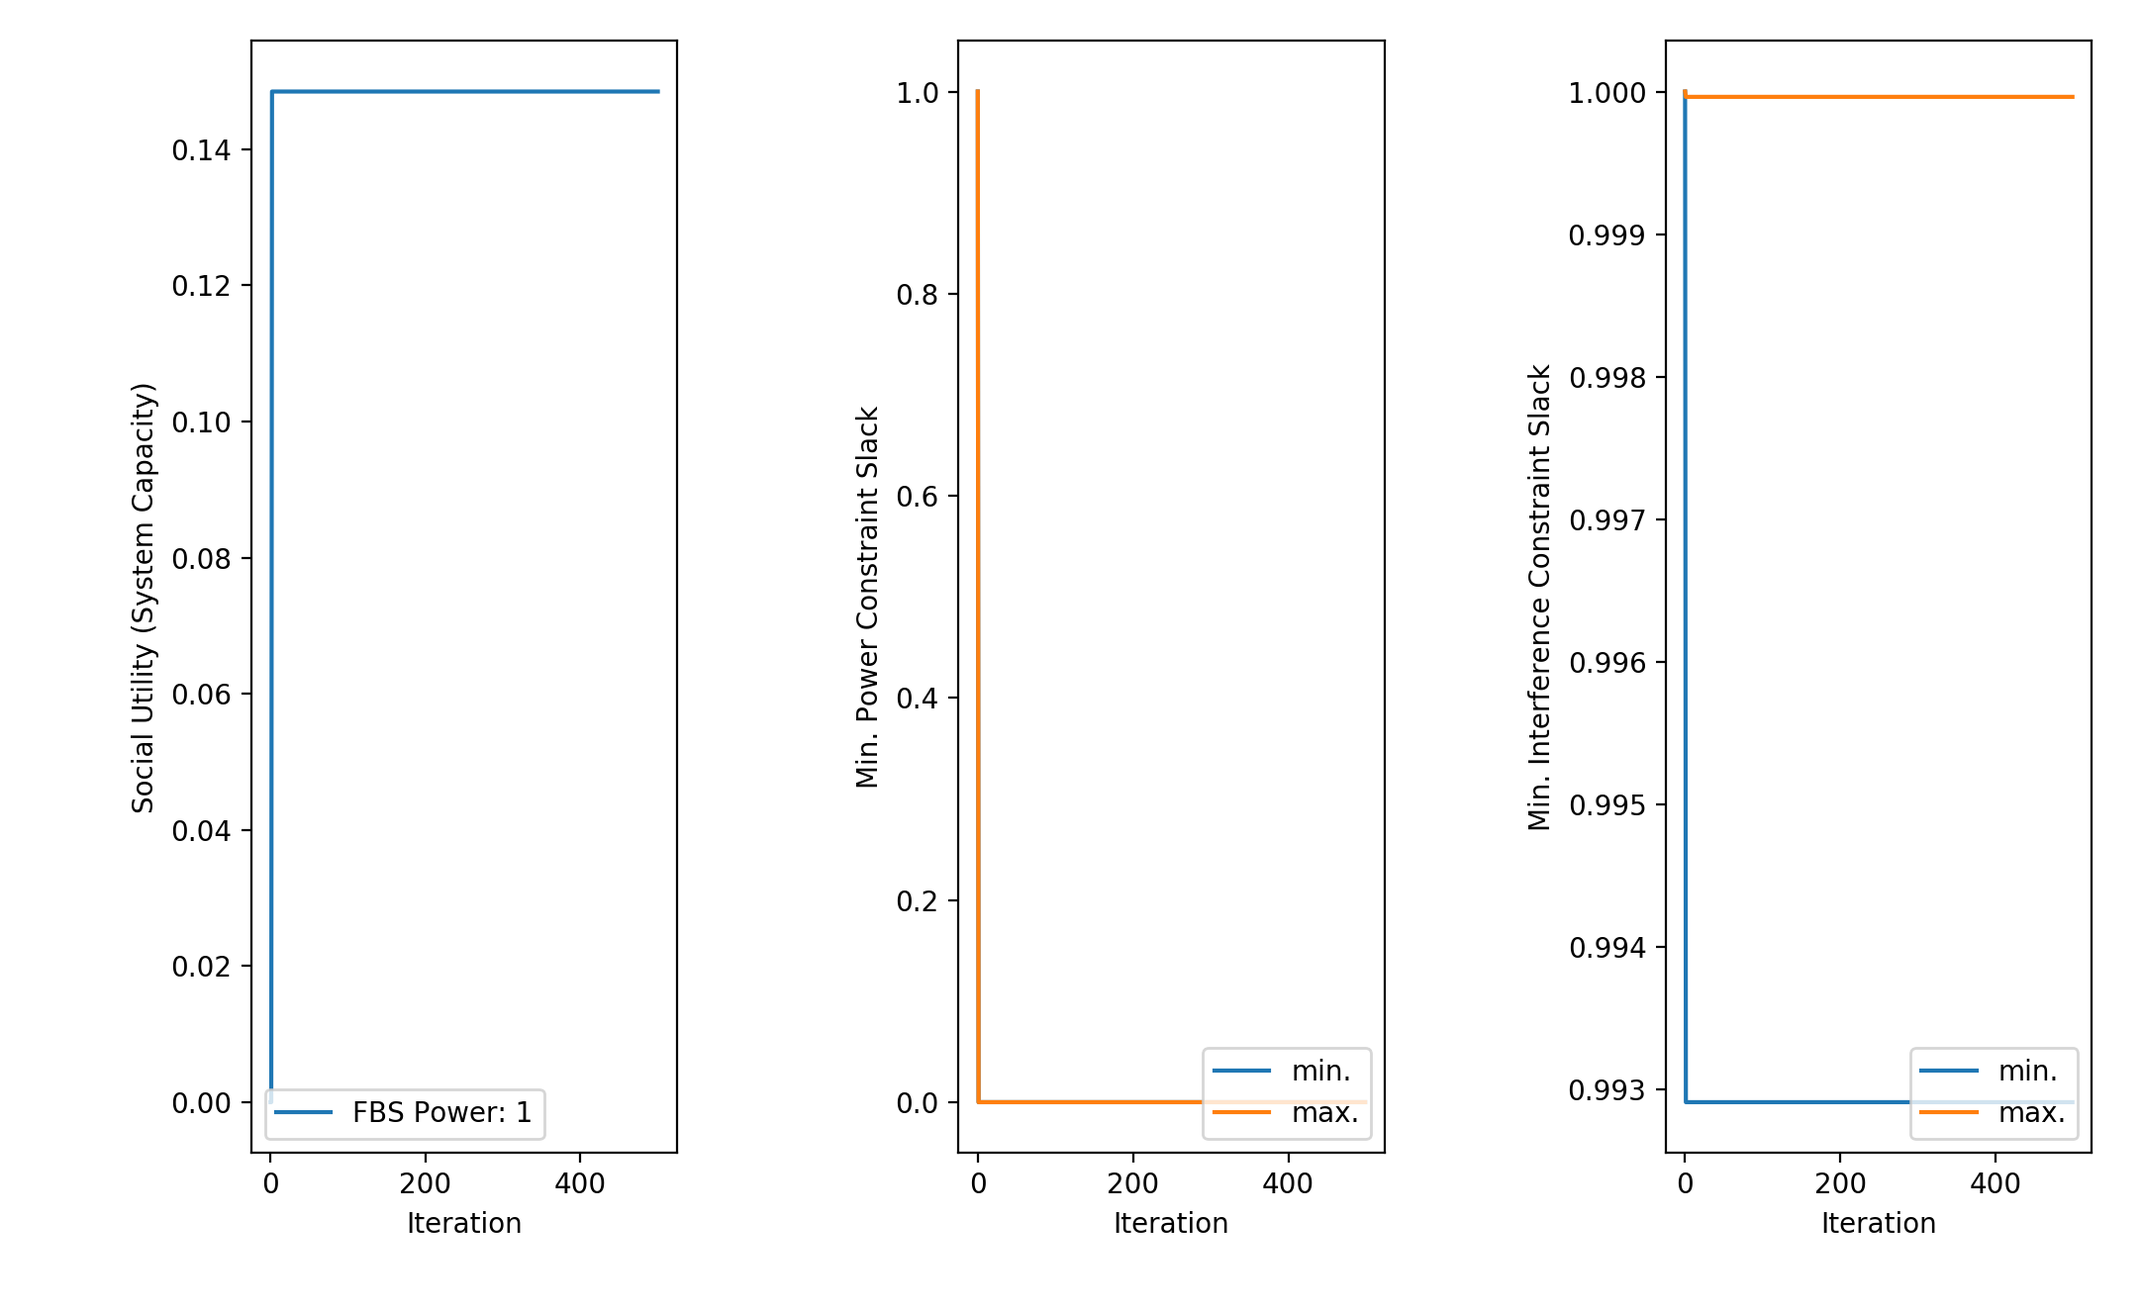
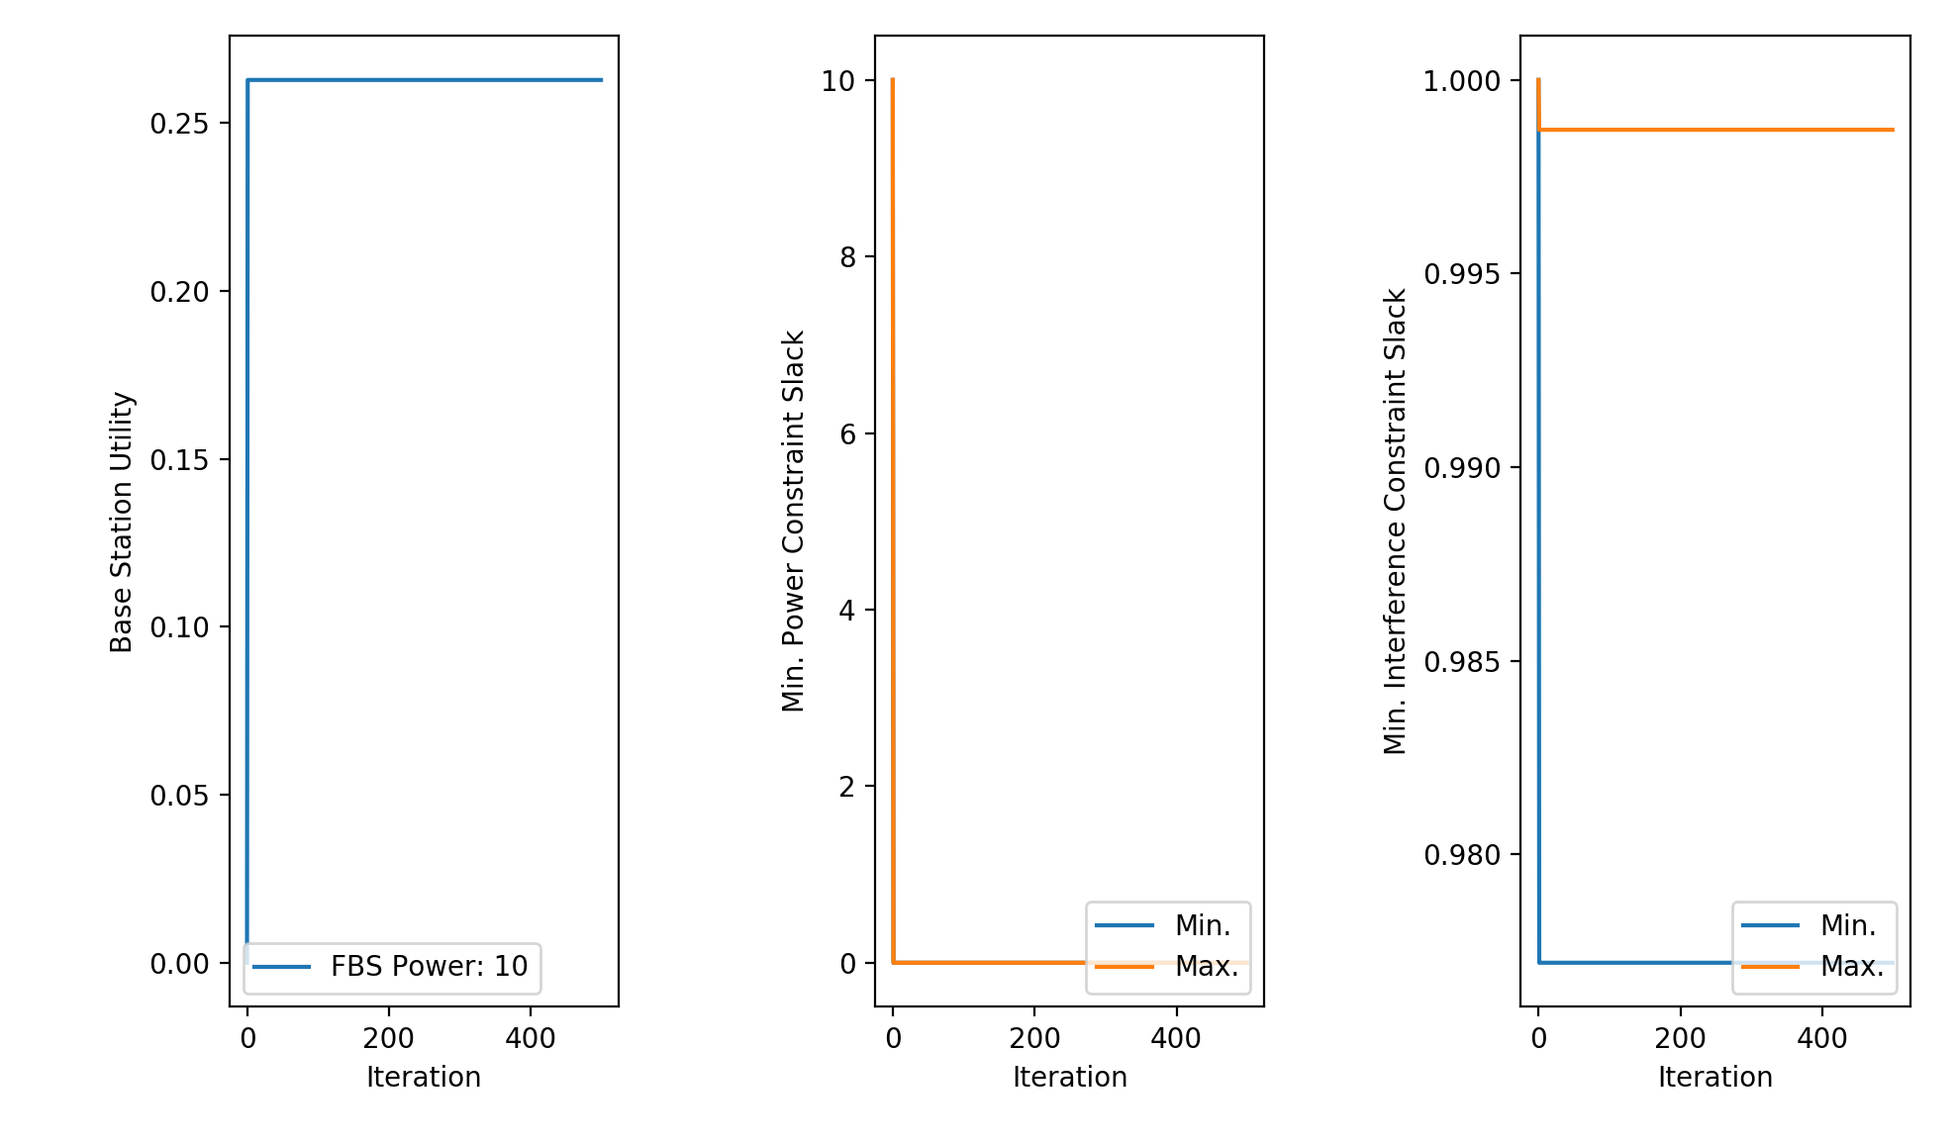
some additions after meeting today

diff --git a/documentation/report_idc_format/2_Latex.tex b/documentation/report_idc_format/2_Latex.tex
@@ -639,18 +639,17 @@ Lastly, we consider the case in which FBSs minimize correlation with macrocell u
 
 \chapter{Simulation and Results}\label{numerical}
 \subsection{Simulation System Description}
-The heterogeneous network is simulated by randomly placing $F$ FBSs and $M$ macrocell users within a predefined area. $K_{f}$ femto users are served by FBS $f$ and channels between FBSs and users (both femto and macro) are simulated using rayleigh fading and the attenuation coefficient $d^{- \beta}$ where $\beta=2$ and $d$ is the distance between user and base-station. Case-specific parameters of the simulation environment are detailed in tables in the following.
+The heterogeneous network is simulated by randomly placing $F$ FBSs and $M$ macrocell users within a predefined area. $K_{f}$ femto users are served by FBS $f$ and channels between FBSs and users (both femto and macro) are modeled as a composition of Rayleigh fading and pathloss with the attenuation coefficient $d^{- \beta}$ where $\beta=2$ and $d$ is the distance between user and base-station. Case-specific parameters of the simulation environment are detailed in the following.
 
 
 \subsection{Simulation Results}
-Using the algorithm from \ref{algo1}, convergence to a Nash Equilibrium is observed over different system scenarios. 
-In the following simulations, the value of the potential function is plotted over iterations of the algorithm detailed in Section \ref{algo1}. Note that in this case the potential function value is equivalent to the total capacity of the femto base station network and is therefore referred to as the "social utility". By observing convergence of this value, we can infer that players are satisfied with their current strategy and thus a NNE of the system has been reached.  In addition, we track the \emph{minimum} and \emph{maximum} residual tolerance (referred to as slack) for both the transmit power and interference constraints in each iteration. By ensuring that there is no positive slack in the interference constraint, we can verify that player strategies are coupled, implying that a game is indeed being played. 
+Using the algorithm from \ref{algo1}, convergence to a Nash equilibrium is observed over different system scenarios by plotting the value of the potential function over iterations of the algorithm. Note that in this case, the potential function value is equivalent to the total capacity of the femto base station network and is therefore referred to as the "social utility". By observing convergence of this value, we can infer that players cannot increase their utility by changing their current strategy and thus a NNE of the system has been reached.  In addition, we track the \emph{minimum} and \emph{maximum} residual tolerance (referred to as slack) for both the transmit power and interference constraints in each iteration. By ensuring that there is no positive slack in the interference constraint, we can verify that player strategies are coupled and therefore, that strategies of some players limit the strategies of others. 
 \par
-The first system considered is characterized by the parameters in Table \ref{table1} and the results for the simulations are shown in Figures \ref{single_power1} and \ref{single_power2}. The results of Figure \ref{single_power1} indicate that FBSs do not have sufficient power to begin violating the interference constraints of the macro cell users. This is seen by noting that the maximum slack on the power constraints in Figure \ref{single_power1} is $0$ (no slack) while even the minimum slack on interference is greater than $0$. In contrast, Figure \ref{single_power2} illustrates the case in which FBSs do have sufficient power to violate interference constraints and thus cannot use all of their power. This is seen by noting that the minimum power constraint slack is greater than 0 while the minimum interference constraint slack is $0$. One additional point illustrated in Figure \ref{single_power2} is that this allocation strategy may enforce that some FBSs transmit with very low power in order to satisfy the interference constraints. Noting that the maximum slack in the power constraint of Figure \ref{single_power2} is very close to the total power available (and thus very little power is transmitted) suggests that this strategy may give some FBSs very high utility while others have very low utility. Such "unfairness" can be resolved using methods described in (cite) but are not investigated here.
+The first systems considered are characterized by the parameters in Table \ref{table1} and the results for the simulations are shown in Figures \ref{single_power1}, \ref{single_power2} and \ref{single_power3}. The results of Figure \ref{single_power1} indicate that FBSs do not have sufficient power to begin violating the interference constraints of the macro cell users. This is seen by noting that the maximum slack on the power constraints in Figure \ref{single_power1} is $0$ (no slack) while even the minimum slack on interference is greater than $0$. In contrast, Figures \ref{single_power2} and \ref{single_power3} illustrate the case in which FBSs do have sufficient power to violate interference constraints and thus cannot use all of their power. This is seen by noting that the minimum power constraint slack is greater than 0 while the minimum interference constraint slack is $0$. The comparison of Figures \ref{single_power2} and \ref{single_power3} also highlights that when the interference constraints are tight, the addition of additional power to FBS does not increase the social utility. One additional point illustrated in Figures \ref{single_power2} and \ref{single_power3} is that this allocation strategy may enforce that some FBSs transmit with very low power in order to satisfy the interference constraints. Noting that the maximum slack in the power constraint of Figures \ref{single_power2} and \ref{single_power3} is very close to the total power available (and thus very little power is transmitted) suggests that this strategy may give some FBSs very high utility while others have very low utility. Such "unfairness" can be resolved using methods discussed in \cite{kelly1998rate} but are not investigated here.
 
 
 \begin{center}
-\begin{figure}
+\begin{figure}[H]
 \begin{tabular}{ | m{8cm} | m{5cm} | } 
 \hline
 Simulation Area & $30 \times 30$\\ 
@@ -663,13 +662,13 @@ Number of users for each FBSs & 1\\
 \hline
 Number of antennas for each FBSs & 1\\ 
 \hline
-Noise at femto cell users & $1$\\ 
+Noise power at femto cell users & $1$\\ 
 \hline
-FBS power constraint & 10 (Fig. \ref{single_power1}) or 1000 (Fig. \ref{single_power2})  \\ 
+FBS transmit power constraint & 10 (Fig. \ref{single_power1}), 750 (Fig. \ref{single_power2} and 1000 (Fig. \ref{single_power3})  \\ 
 \hline
 Macro user interference threshold & $1$\\ 
 \hline
-Initial value $p_{f,i}$ & $p_{f,i} = 0$\\
+Initial value of FBS user power & $p_{f,i} = 0$\\
 \hline
 Initial value of dual variables $\chi_{f}$, $\lambda_{m}$ and $\nu_{f,i}$ & $\nu_{f,i}=1$, $\lambda_{m}=1 $, $\chi_{f}=1$\\
 \hline
@@ -681,30 +680,35 @@ Dual variable step size $\alpha^k$& $\alpha^k= 1$ $\forall k$\\
 \end{figure}
 \end{center}
 
-\begin{figure}[H]
-	\includegraphics[width=\textwidth,height = 10cm]{figures/system_figure_single}
-	  \caption{Simulation Environment: 5 FBSs each with 1 antenna and 1 user in an environment of 10 macro cell users.}
-	  \label{system_figure_single}
-\end{figure}
+%\begin{figure}[H]
+%	\includegraphics[width=\textwidth,height = 10cm]{figures/system_figure_single}
+%	  \caption{Simulation Environment: 5 FBSs each with 1 antenna and 1 user in an environment of 10 macro cell users.}
+%	  \label{system_figure_single}
+%\end{figure}
 
 \begin{figure}[H]
 	\includegraphics[width= 15cm,height = 10cm]{figures/single_power1}
-	  \caption{Single Antenna Game Simulation with total FBS power of 100}
+	  \caption{Single antenna scenario 1 with FBS power constraint 10.}
 	  \label{single_power1}
 \end{figure}
 \begin{figure}[H]
 	\includegraphics[width= 15cm,height = 10cm]{figures/single_power2}
-	  \caption{Single Antenna Game Simulation with total FBS power of 150}
+	  \caption{Single antenna scenario 2 with FBS power constraint 750.}
 	  \label{single_power2}
+\end{figure}
+\begin{figure}[H]
+	\includegraphics[width= 15cm,height = 10cm]{figures/single_power3}
+	  \caption{Single antenna scenario 3 with FBS power constraint 1000.}
+	  \label{single_power3}
 \end{figure}
 
 
 We now consider the case in which FBSs have $T_f > K_f$ such that additional degrees of freedom are available for the choice of beamforming matrix $\mathbf{U}_f$. Figures \ref{multiple_antenna1}, \ref{multiple_antenna2} and \ref{multiple_antenna3} compare the systems with parameters detailed in Table \ref{table2}.
-Here we consider the case in which $\mathbf{U}_f$ is chosen according to Problem \ref{mp_opt} to satisfy the zero-forcing constraint (\ref{zf_const_gen}) using the Moore-Penrose inverse. It is seen from Figures \ref{multiple_antenna1}, \ref{multiple_antenna2} and \ref{multiple_antenna3} that when interference is the limiting constraint, additional antennas to the FBS can increase social utility but additional that if too many antennas are available, this method of choosing the beamforming matrix $\mathbf{U}_f$ can lead to decreased utility. This observation further motivates the need for improved methods of choosing $\mathbf{U}_f$.
+Here we consider the case in which $\mathbf{U}_f$ is chosen according to Problem \ref{mp_opt} to satisfy the zero-forcing constraint (\ref{zf_const_gen}) using the Moore-Penrose inverse. It is seen from Figures \ref{multiple_antenna1}, \ref{multiple_antenna2} and \ref{multiple_antenna3} that when interference is the limiting constraint, additional antennas to the FBS \emph{can} increase social utility but that if too many antennas are used, this method of choosing the beamforming matrix $\mathbf{U}_f$ can lead to decreased utility. This observation further motivates the need for improved methods of choosing $\mathbf{U}_f$.
 
 
 \begin{center}
-\begin{figure}
+\begin{figure}[H]
 \begin{tabular}{ | m{8cm} | m{5cm} | } 
 \hline
 Simulation Area & $30 \times 30$\\ 
@@ -717,9 +721,9 @@ Number of users for each FBSs & 5\\
 \hline
 Number of antennas for each FBSs & 7 (Fig. \ref{multiple_antenna1}), 15 (Fig. \ref{multiple_antenna2}), 30 (Fig. \ref{multiple_antenna3})\\ 
 \hline
-Noise at femto cell users & $1$\\ 
+Noise power at femto cell users & $1$\\ 
 \hline
-FBS power constraint & 1000 \\ 
+FBS transmit power constraint & 1000 \\ 
 \hline
 Macro user interference threshold & $1$\\ 
 \hline
@@ -738,21 +742,19 @@ Dual variable step size $\alpha^k$& $\alpha^k= 1$ $\forall k$\\
 
 \begin{figure}[H]
 	\includegraphics[width= 15cm,height = 10cm]{figures/multiple_antenna1}
-	  \caption{Simulation Environment: 5 FBSs each with multiple antennas ($T_f \geq K_f$) and 5 user in an environment of 10 macro cell users.}
+	  \caption{Multiple antenna scenario 1 with 7 antennas at each FBS.}
 	  \label{multiple_antenna1}
 \end{figure}
 
 \begin{figure}[H]
 	\includegraphics[width=\textwidth,height = 10cm]{figures/multiple_antenna2}
-	  \caption{Multiple antenna simulation for FBSs with 15 antennas and 5 users.
-	  }
+	  \caption{Multiple antenna scenario 2 with 15 antennas at each FBS.}
 	  \label{multiple_antenna2}
 \end{figure}
 
 \begin{figure}[H]
 	\includegraphics[width=\textwidth,height = 10cm]{figures/multiple_antenna3}
-	  \caption{Multiple antenna simulation for FBSs with 30 antennas and 5 users.
-	  }
+	  \caption{Multiple antenna scenario 3 with 30 antennas at each FBS.}
 	  \label{multiple_antenna3}
 \end{figure}
 
@@ -761,18 +763,18 @@ Last, using the simulation parameters from Table \ref{table2}, we compare the ga
 
 \begin{figure}[H]
 	\includegraphics[width= 15cm,height = 10cm]{figures/beamformer_comparison}
-	  \caption{First comparison scenario between choices for beamformer $\mathbf{U}_f$ using the solutions to the optimization problems in \ref{mp_opt}, and \ref{correlation_opt}.}
+	  \caption{Beamformer comparison scenario 1. User channels are correlated with macro user channels.}
 	  \label{beamformer_comparison}
 \end{figure}
 
 \begin{figure}[H]
 	\includegraphics[width= 15cm,height = 10cm]{figures/beamformer_comparison2}
-	  \caption{Second comparison scenario between choices for beamformer $\mathbf{U}_f$ using the solutions to the optimization problems in \ref{mp_opt}, and \ref{correlation_opt}.}
+	  \caption{Beamformer comparison scenario 2. User channels are not correlated with macro user channels.}
 	  \label{beamformer_comparison2}
 \end{figure}
 
 
 \chapter{Conclusion}
-In this work, the power allocation problem for heterogeneous networks with femto cell base stations has been analyzed. The most general setup of this problem poses difficulties for distributed solutions due to the non-concavity of the resulting utility functions. It is shown that under additional beam-forming constraints on base stations equipped with antenna arrays, a unique, normalized Nash equilibrium can be achieved with a distributed solution. 
+In this work, the power allocation problem for heterogeneous networks with femto cell base stations has been analyzed. The most general setup of this problem poses difficulties for distributed solutions due to the non-concavity of the resulting utility functions. It is shown that under additional beamforming constraints on base stations equipped with antenna arrays, a unique, normalized Nash equilibrium can be achieved with a distributed solution. Simulations confirmed these results and motivated the need for further optimization of the beamformers used at femtocell base stations.
 \par
 Future work should extend the system presented here to further generalizations including interference between the femtocell basestations, and potential games for imperfect channel estimation. 

diff --git a/network_simulations/het_net.py b/network_simulations/het_net.py
@@ -89,13 +89,14 @@ class HetNet:
 
     def allocate_power_step(self, num_iterations, step_size_pow, step_size_int):
         social_utility_vector = []
+        min_utility = []
+        max_utility = []
         dual_std = []
         feasibility = []
         interferenceSlackMin = []
         interferenceSlackMax = []
         powerSlackMin = []
         powerSlackMax = []
-        social_utility_vector.append(self.get_social_utility())
         #   intitialize with correct duals given the starting allocation
         for i in range(num_iterations):
             dual_std.append(self.get_average_duals())
@@ -103,14 +104,16 @@ class HetNet:
             [player.solve_local_opimization() for player in self.base_stations]
             #   Second step of dual ascent -> update dual variables based on values from first step
             self.__update_dual_variables(step_size_pow, step_size_int, i)
-
-            social_utility_vector.append(self.get_social_utility())
+            utilities = self.get_social_utility()
+            social_utility_vector.append(utilities[0])
+            min_utility.append(utilities[1])
+            max_utility.append(utilities[2])
             interferenceSlackMin.append(np.min(self.trackIntConstraints()))
             interferenceSlackMax.append(np.max(self.trackIntConstraints()))
             powerSlackMin.append(np.min(self.trackPowConstraints()))
             powerSlackMax.append(np.max(self.trackPowConstraints()))
         dual_std.append(self.get_average_duals())
-        return social_utility_vector, dual_std, self.verify_feasibility(), \
+        return social_utility_vector, min_utility, max_utility, dual_std, self.verify_feasibility(), \
                [interferenceSlackMin, interferenceSlackMax, powerSlackMin, powerSlackMax]
 
     def verify_feasibility(self):
@@ -177,11 +180,19 @@ class HetNet:
         return locations
 
     def get_social_utility(self):
-        total = 0
-        for base_station in self.base_stations:
+        total = min_utility = max_utility = 0
+        for ind, base_station in enumerate(self.base_stations):
+            if ind >= 1:
+                if base_station.get_utility() < min_utility:
+                    min_utility = base_station.get_utility()
+                if base_station.get_utility() > max_utility:
+                    max_utility = base_station.get_utility()
+            else:
+                min_utility = max_utility = base_station.get_utility()
             utility = base_station.get_utility()
             total += utility
-        return total
+        return total, min_utility, max_utility
+
 
     def get_base_stations(self):
         return self.base_stations

diff --git a/optimization_work/userPowerComparison.py b/optimization_work/userPowerComparison.py
@@ -18,7 +18,7 @@ def test_power_compare():
     num_antenna = 1
     step_size_pow = 1
     step_size_int = step_size_pow
-    userPowerList = [1, 1000]
+    userPowerList = [10, 750, 1000]
     num_iterations = 500
     numMacroUsers = 10
     numBaseStations = 5
@@ -34,7 +34,7 @@ def test_power_compare():
         fig_main = plt.figure()
         util_plt = fig_main.add_subplot(1, 3, 1)
         # util_plt.set_title("Power Convergence")
-        util_plt.set_ylabel("Social Utility (System Capacity)")
+        util_plt.set_ylabel("Base Station Utility")
         util_plt.set_xlabel("Iteration")
         extra_plt = fig_main.add_subplot(1, 3, 2)
         # extra_plt.set_title("Interference Constraint Slack")
@@ -47,13 +47,15 @@ def test_power_compare():
         check = []
         currNetwork = copy.deepcopy(network)
         currNetwork.change_power_limit(powerLimit)
-        utilities, duals, feasibility, constraints = currNetwork.allocate_power_step(num_iterations, step_size_pow, step_size_int)
+        utilities, min_utilities, max_utilities, duals, feasibility, constraints = currNetwork.allocate_power_step(num_iterations, step_size_pow, step_size_int)
         duals = np.asarray(duals)
-        util_plt.plot(np.arange(num_iterations + 1), utilities, label=f"FBS Power: {powerLimit}")
-        extra_plt.plot(np.arange(num_iterations), constraints[2], label=f"min.")
-        extra_plt.plot(np.arange(num_iterations), constraints[3], label=f"max.")
-        extra_plt1.plot(np.arange(num_iterations), constraints[0], '-', label=f"min.")
-        extra_plt1.plot(np.arange(num_iterations), constraints[1], '-', label=f"max.")
+        util_plt.plot(np.arange(num_iterations), utilities, label=f"FBS Power: {powerLimit}")
+        # util_plt.plot(np.arange(num_iterations), min_utilities, label=f"Min. FBS Utility: {powerLimit}")
+        # util_plt.plot(np.arange(num_iterations), max_utilities, label=f"Max. FBS Utility: {powerLimit}")
+        extra_plt.plot(np.arange(num_iterations), constraints[2], label=f"Min.")
+        extra_plt.plot(np.arange(num_iterations), constraints[3], label=f"Max.")
+        extra_plt1.plot(np.arange(num_iterations), constraints[0], '-', label=f"Min.")
+        extra_plt1.plot(np.arange(num_iterations), constraints[1], '-', label=f"Max.")
 
 
         print(feasibility, "\n")
